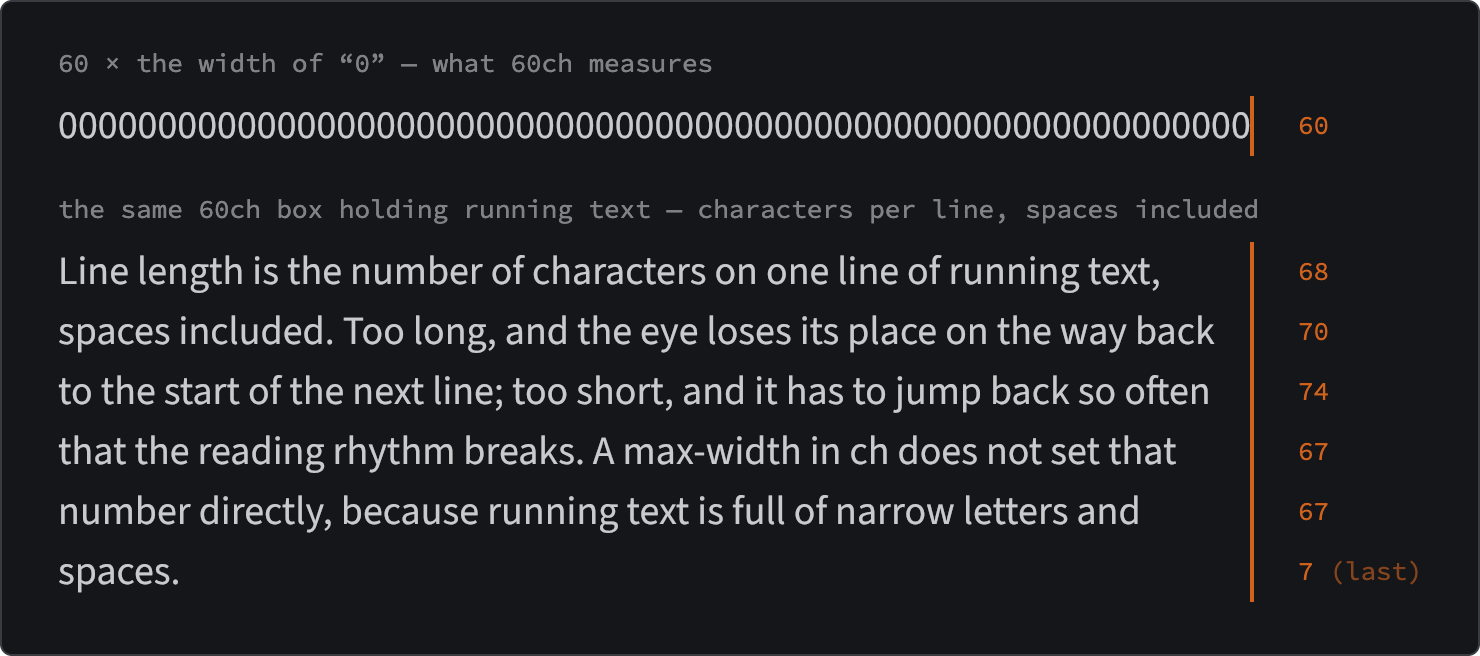
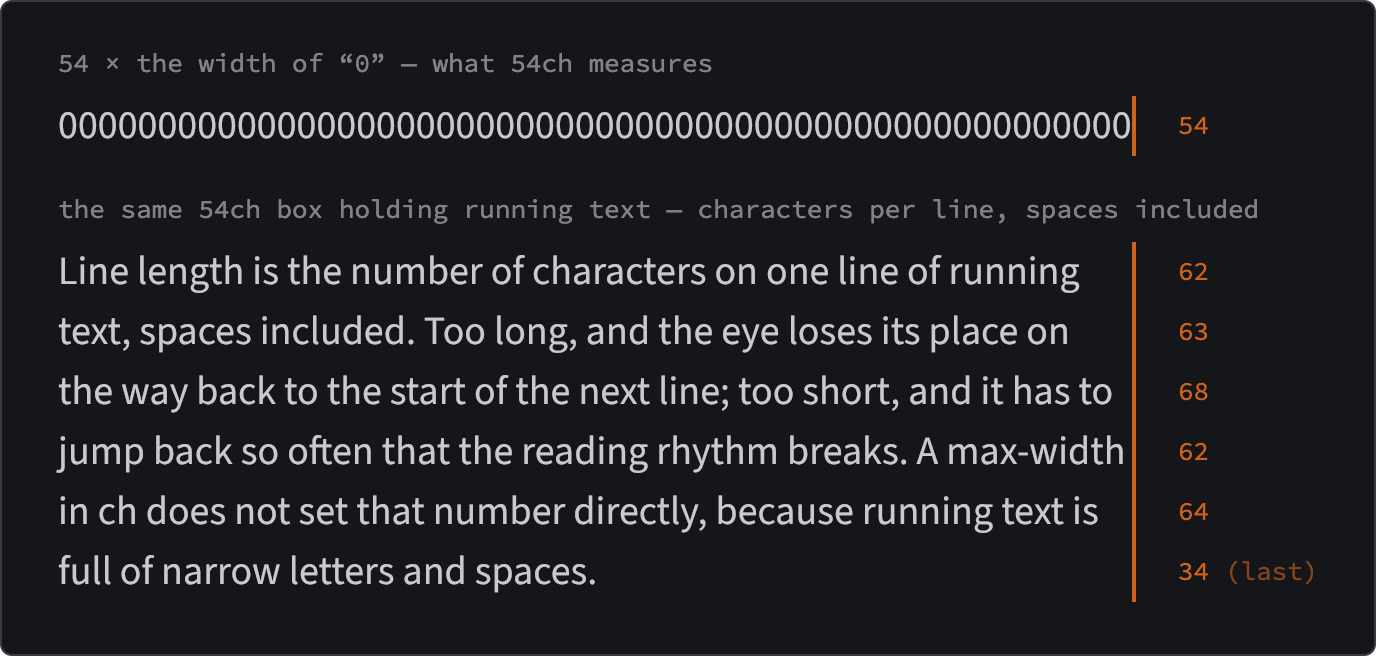
Line length: the prose measure is 54ch
Johan settled on 54ch after trying several widths, replacing Eleventy Excellent's 60ch in prose.css, the .intro lede and the wiki caption measure. That sets about 63 characters a line from tablet width up, where 60ch set about 72.

Wiki: Line length re-measured and its figure re-shot at 54ch; the 60ch mentions on six other pages and the index updated, the band and caption measurements taken again.

diff --git a/src/wiki/_sources/line-length.html b/src/wiki/_sources/line-length.html
@@ -13,10 +13,10 @@
   body { margin: 0; padding: 40px; background: #ddd; }
   .specimen { inline-size: fit-content; background: var(--paper); border: 1px solid var(--rule); border-radius: 6px; padding: 22px 28px 26px; }
   .label { font-family: 'Source Code Pro', ui-monospace, monospace; font-size: 13px; color: var(--ink); opacity: 0.6; margin: 0 0 8px; }
-  /* Body text as the site sets it: Source Sans, --leading 1.5, the prose rule's 60ch. Size is irrelevant to the count — ch scales with the font. */
-  .measure { font-family: 'Source Sans', sans-serif; font-size: 20px; line-height: 1.5; color: var(--ink); max-inline-size: 60ch; margin: 0; }
-  .ruler { white-space: nowrap; border-inline-end: 2px solid var(--flag); inline-size: 60ch; letter-spacing: 0; }
-  .wrap { display: grid; grid-template-columns: 60ch auto; column-gap: 20px; font-size: 20px; }
+  /* Body text as the site sets it: Source Sans, --leading 1.5, the prose rule's 54ch. Size is irrelevant to the count — ch scales with the font. */
+  .measure { font-family: 'Source Sans', sans-serif; font-size: 20px; line-height: 1.5; color: var(--ink); max-inline-size: 54ch; margin: 0; }
+  .ruler { white-space: nowrap; border-inline-end: 2px solid var(--flag); inline-size: 54ch; letter-spacing: 0; }
+  .wrap { display: grid; grid-template-columns: 54ch auto; column-gap: 20px; font-size: 20px; }
   .counts { font-family: 'Source Code Pro', ui-monospace, monospace; font-size: 13px; color: var(--flag); line-height: 30px; margin: 0; }
   .para { border-inline-end: 2px solid var(--flag); }
   .gap { block-size: 18px; }
@@ -25,13 +25,13 @@
 <body>
 
 <div class="specimen" data-shot="line-length-ch">
-  <p class="label">60 × the width of “0” — what 60ch measures</p>
+  <p class="label">54 × the width of “0” — what 54ch measures</p>
   <div class="wrap">
-    <p class="measure ruler">000000000000000000000000000000000000000000000000000000000000</p>
-    <p class="counts">60</p>
+    <p class="measure ruler">000000000000000000000000000000000000000000000000000000</p>
+    <p class="counts">54</p>
   </div>
   <div class="gap"></div>
-  <p class="label">the same 60ch box holding running text — characters per line, spaces included</p>
+  <p class="label">the same 54ch box holding running text — characters per line, spaces included</p>
   <div class="wrap">
     <p class="measure para" id="para">Line length is the number of characters on one line of running text, spaces included. Too long, and the eye loses its place on the way back to the start of the next line; too short, and it has to jump back so often that the reading rhythm breaks. A max-width in ch does not set that number directly, because running text is full of narrow letters and spaces.</p>
     <p class="counts" id="counts"></p>

diff --git a/src/_config/setup/design-previews/component-prose.html b/src/_config/setup/design-previews/component-prose.html
@@ -24,7 +24,7 @@
 				<button class="button" data-small-button type="button" id="theme">Dark theme</button>
 			</div>
 			<p class="ds-meta">
-				The <code>.prose</code> block — running text at a 60ch measure, old-style figures, and the element styles that come from
+				The <code>.prose</code> block — running text at a 54ch measure, old-style figures, and the element styles that come from
 				<code>global-styles.css</code> without any class at all.
 			</p>
 
@@ -32,7 +32,7 @@
 				<h2 class="heading-line">A second-level heading</h2>
 
 				<p>
-					Body copy sits at a 60ch measure with <code>text-wrap: pretty</code>. The numerals are old-style by default — 1234567890 — because
+					Body copy sits at a 54ch measure with <code>text-wrap: pretty</code>. The numerals are old-style by default — 1234567890 — because
 					running text reads better with figures that have ascenders and descenders, the way lowercase letters do.
 				</p>
 

diff --git a/src/assets/css/local/wiki.css b/src/assets/css/local/wiki.css
@@ -31,7 +31,7 @@ _log.md is a run of dated records whose h2 is the whole record — "[2026-08-29]
 WIKI CAPTIONS
 Italic and a step smaller than the prose, starting on the prose's edge and held to the paragraphs' measure, so its right edge lines up with theirs. A breakout figure hands its caption the content column through subgrid.
 */
-/* ⚠ Registered as a length so 60ch resolves at the body size on .prose and inherits as px; an unregistered 60ch would re-resolve at the caption's smaller size. */
+/* ⚠ Registered as a length so 54ch resolves at the body size on .prose and inherits as px; an unregistered 54ch would re-resolve at the caption's smaller size. */
 @property --wiki-prose-measure {
   syntax: '<length>';
   inherits: true;
@@ -39,7 +39,7 @@ Italic and a step smaller than the prose, starting on the prose's edge and held 
 }
 
 .prose {
-  --wiki-prose-measure: 60ch;
+  --wiki-prose-measure: 54ch;
 }
 
 .prose :is(figcaption, .meta) {

diff --git a/src/assets/css/global/blocks/prose.css b/src/assets/css/global/blocks/prose.css
@@ -44,7 +44,7 @@
 /* Measure is in ch, so each type size finds its own line length and the short blocks hang from the start edge on purpose — never add margin-inline: auto here. See the wiki's "Line length". */
 /* Plain lists take the measure on the list, so the bullet indent comes out of it rather than pushing items past the paragraphs' edge. */
 .prose :is(p, li, dl, blockquote, ul:not([class]), ol:not([class])) {
-  max-inline-size: 60ch;
+  max-inline-size: 54ch;
   text-wrap: pretty;
 }
 

diff --git a/src/assets/css/local/post.css b/src/assets/css/local/post.css
@@ -19,7 +19,7 @@ hgroup > p {
 /* Lede / intro — a slightly larger, gently de-emphasised summary under the title. */
 .intro {
   color: var(--color-text-accent);
-  max-inline-size: 60ch;
+  max-inline-size: 54ch;
   text-wrap: balance;
 }
 

diff --git a/src/wiki/Line length.md b/src/wiki/Line length.md
@@ -1,7 +1,7 @@
 ---
 description: "How many characters a line of body text should hold, and why a max-width in ch does not set that number directly."
 date: 2026-09-10
-updated: 2026-09-20
+updated: 2026-10-01
 ---
 
 **Line length** (typography's *measure*) is the number of characters on one line of running text, spaces included. Too long, and the eye loses its place on the way back to the start of the next line; too short, and it has to jump back so often that the reading rhythm breaks. [Baymard Institute's usability research](https://baymard.com/blog/line-length-readability) (Edward Scott, 2022) puts the comfortable range at **50–75 characters per line**, and reports test users either leaving a page of over-long lines or skimming it without taking it in.
@@ -21,47 +21,49 @@ Baymard also lists a set of spacing values (letter spacing 0.12 em, word spacing
 Line length is set with a maximum width in a font-relative unit, so it scales with the type:
 
 ```css
-p { max-inline-size: 60ch; }
+p { max-inline-size: 54ch; }
 ```
 
-⚠ **`60ch` is not 60 characters.** `1ch` is the advance width of the "0" glyph, and digits are wider than the average character in running text, which is full of narrow `i`, `l`, `t` and spaces. A `ch` measure therefore holds *more* characters than its number. How many more depends on the face: measure it rather than assume it.
+⚠ **`54ch` is not 54 characters.** `1ch` is the advance width of the "0" glyph, and digits are wider than the average character in running text, which is full of narrow `i`, `l`, `t` and spaces. A `ch` measure therefore holds *more* characters than its number. How many more depends on the face: measure it rather than assume it.
 
 <figure class="popout" data-wiki-mockup>
-  <img eleventy:formats="webp,png" src="/assets/images/wiki/line-length-ch.png" alt="Above, a row of sixty zeros in Source Sans exactly fills a box 60ch wide, marked with an orange rule. Below, a paragraph set in a box of the same width, with the character count of each line in orange beside it: 68, 70, 74, 67, 67, and a last line of 7." width="1480" height="656">
-  <figcaption>Sixty zeros are exactly <code>60ch</code>; the same box holds 67–74 characters of running text in Source Sans. The counts are measured from the rendered lines, not typed in.</figcaption>
+  <img eleventy:formats="webp,png" src="/assets/images/wiki/line-length-ch.png" alt="Above, a row of fifty-four zeros in Source Sans exactly fills a box 54ch wide, marked with an orange rule. Below, a paragraph set in a box of the same width, with the character count of each line in orange beside it: 62, 63, 68, 62, 64, and a last line of 34." width="1376" height="656">
+  <figcaption>Fifty-four zeros are exactly <code>54ch</code>; the same box holds 62–68 characters of running text in Source Sans. The counts are measured from the rendered lines, not typed in.</figcaption>
 </figure>
 
-Baymard suggests `70ch`; in this site's face that would set lines of about 84 characters, over WCAG's 80.
+Baymard suggests `70ch`; in this site's face that would set lines of about 82 characters, over WCAG's 80.
 
-`ch` also changes with the font: while a fallback face shows, the same `60ch` resolves to a different width (see [[Layout shift]], where Arial's `ch` runs about 5% wider than Source Sans's even after metric matching).
+`ch` also changes with the font: while a fallback face shows, the same `54ch` resolves to a different width (see [[Layout shift]], where Arial's `ch` runs about 5% wider than Source Sans's even after metric matching).
 
 On a phone in portrait the column is narrower than any sensible maximum, so the screen, not the CSS, sets the line length, and lines fall below 50 characters. Baymard treats that as the lesser problem; the maximum matters in landscape and on larger screens.
 
 ## In jedee
 
-The measure is Eleventy Excellent's stock rule in `global/blocks/prose.css`:
+The measure is set in `global/blocks/prose.css`:
 
 ```css
-.prose :is(p, li, dl, blockquote) {
-  max-inline-size: 60ch;
+.prose :is(p, li, dl, blockquote, ul:not([class]), ol:not([class])) {
+  max-inline-size: 54ch;
   text-wrap: pretty;
 }
 ```
 
-jedee's own additions reuse the number: `.intro` (the lede under a post title) in `local/post.css` is also `60ch`, and the webmention list in `local/webmentions.css` is `40ch`. The prose column around them is `--wrapper-width: 64rem`, so the `ch` cap, not the column, is what limits a paragraph on a desktop screen. [[Text wrapping]] covers the `text-wrap` half of the same rule.
+Eleventy Excellent ships `60ch`. On 2026-10-01 Johan tried several widths and settled on `54ch`, which lands near the middle of the 50–75 range instead of at its top (the numbers are below). Plain lists take the measure on the list itself rather than on each item, so the bullet indent comes out of the line length instead of pushing list text past the paragraphs' right edge. That follows the book typographer's text block, where indented matter sits inside the measure and never sticks out of it. A list with a class (a card grid, a row of tags) keeps the per-item rule, so the cap doesn't squeeze the whole grid.
 
-Because that cap is narrower than the column and nothing centers it, every text block hangs from the column's start edge and the right edge steps in as the type gets smaller. Measured on [[Layout breakouts]] in a 946 px column: the band runs 48–898 px, a code block and an `h2` fill it at 850 px, a paragraph stops at 804.8 px at 24.5 px type, and a figcaption at 654.5 px at 19.7 px type (its `60ch` comes from the wiki's own caption rule, not the one above) — the same number at two type sizes, with the uncapped elements filling the band. A paragraph's optical center therefore sits about 47 px left of the band's center, a caption's about 122 px. **This is deliberate and the page is designed around it**: the full-width elements that fall between the text — a code block, a table, a figure — re-establish the band, so the page reads as balanced without the short blocks being centered. Adding `margin-inline: auto` to the rule above would center every one of them and flatten the effect site-wide, in one line.
+jedee's own additions reuse the number: `.intro` (the lede under a post title) in `local/post.css` is also `54ch`, and so is the wiki's caption measure in `local/wiki.css` (see [[Figures]]). The webmention list in `local/webmentions.css` is `40ch`. The prose column around them is `--wrapper-width: 64rem`, so the `ch` cap, not the column, is what limits a paragraph on a tablet or desktop screen. [[Text wrapping]] covers the `text-wrap` half of the same rule.
 
-**What `60ch` actually sets**, measured on 2026-09-10 in the built site: characters per rendered line in paragraphs of plain running text (no inline code), last lines excluded, in Source Sans.
+Because that cap is narrower than the column and nothing centers it, every text block hangs from the column's start edge. Measured on [[Layout breakouts]] at a 1280 px viewport: the content band runs 128–1152 px, and an `h2` fills it; a code block breaks out to 96–1184 px; a paragraph and a figcaption both stop at 860.2 px. A paragraph's optical center therefore sits about 146 px left of the band's center. **This is deliberate and the page is designed around it**: the full-width elements that fall between the text — a code block, a table, a figure — re-establish the band, so the page reads as balanced without the short blocks being centered. Adding `margin-inline: auto` to the rule above would center every one of them and flatten the effect site-wide, in one line.
 
-Table: Characters per line set by `60ch`, by viewport
+**What `54ch` actually sets**, measured on 2026-10-01 on the dev server: characters per rendered line in paragraphs of plain running text over 200 characters long (no inline code), last lines excluded, across eight wiki pages, in Source Sans.
+
+Table: Characters per line set by `54ch`, by viewport
 | viewport | font size | paragraph width | characters per line (median, 10th–90th percentile) |
 | --- | --- | --- | --- |
-| 1920 px | 28 px | 835 px | 72 (67–75) |
-| 1280 px | 27.3 px | 813 px | 72 (67–75) |
-| 768 px | 22.8 px | 657 px | 70 (63–74) |
-| 390 px | 19.5 px | 325 px | 39 (36–42) |
+| 1920 px | 28 px | 751 px | 63 (58–67) |
+| 1280 px | 27.3 px | 732 px | 63 (58–67) |
+| 768 px | 22.8 px | 613 px | 63 (58–67) |
+| 390 px | 19.6 px | 343 px | 41 (37–44) |
 
-So `60ch` in Source Sans holds about **1.2 characters per `ch`**: lines of about 72 characters, at the top of the 50–75 range rather than in its middle, and inside WCAG's 80. At 768 px the viewport is already narrower than `60ch`, and at 390 px lines drop to about 39. Nothing has been changed on the strength of this; a measure aimed at the middle of the range would be about `52ch` in this face.
+So `54ch` in Source Sans holds about **1.17 characters per `ch`**: lines of about 63 characters, close to Bringhurst's 66 and in the middle of the 50–75 range. The cap now applies from tablet width up, so the line length is the same at 768 px as at 1920 px; only a phone in portrait drops below 50, to about 41. The old `60ch`, measured on 2026-09-10 in the built site, set lines of about 72 characters, and at 768 px the screen was already narrower than the cap.
 
 Raw source: `src/_raw/Readability The Optimal Line Length.md` (Edward Scott, Baymard Institute, 2022-05-10). The clip captured only Baymard's site navigation, not the article; this page was written from the live article.

diff --git a/src/wiki/Figures.md b/src/wiki/Figures.md
@@ -30,7 +30,7 @@ Everything here is jedee's own and applies to the wiki only (`src/assets/css/loc
 
 ### Wiki captions
 
-Wiki captions are italic and one type step smaller than the prose, start on the prose's left edge, and stop at the paragraphs' `60ch` measure, so a caption's right edge lines up with the paragraphs above it rather than with the figure. Most wiki figures break out to `.popout` width (see [[Layout breakouts]]), so without help the caption would start at the figure's edge, 2rem left of the text. The figure passes the wrapper's named columns down through subgrid and puts the caption back in `content`:
+Wiki captions are italic and one type step smaller than the prose, start on the prose's left edge, and stop at the paragraphs' `54ch` measure, so a caption's right edge lines up with the paragraphs above it rather than with the figure. Most wiki figures break out to `.popout` width (see [[Layout breakouts]]), so without help the caption would start at the figure's edge, 2rem left of the text. The figure passes the wrapper's named columns down through subgrid and puts the caption back in `content`:
 
 ```css
 .prose figure:is(.popout, .feature) {
@@ -42,7 +42,7 @@ Wiki captions are italic and one type step smaller than the prose, start on the 
 .prose figure:is(.popout, .feature) > figcaption { grid-column: content; }
 ```
 
-⚠ `60ch` in the caption's own rule would be 60 of the *caption's* smaller characters, and the edge would silently land short of the paragraphs'. The measure is registered as a length, so it resolves once on `.prose`, at the body size, and inherits as pixels:
+⚠ `54ch` in the caption's own rule would be 54 of the *caption's* smaller characters, and the edge would silently land short of the paragraphs'. The measure is registered as a length, so it resolves once on `.prose`, at the body size, and inherits as pixels:
 
 ```css
 @property --wiki-prose-measure {
@@ -51,11 +51,11 @@ Wiki captions are italic and one type step smaller than the prose, start on the 
   initial-value: 0px;
 }
 
-.prose { --wiki-prose-measure: 60ch; }
-.prose figcaption { max-inline-size: var(--wiki-prose-measure); }
+.prose { --wiki-prose-measure: 54ch; }
+.prose :is(figcaption, .meta) { max-inline-size: var(--wiki-prose-measure); }
 ```
 
-At a 1440px window both the paragraphs and the captions run from x = 201 to 1035, inside a figure from 169 to 1257. Three versions came before this one on the same day: a hanging info icon after Smashing Magazine's captions, a caption spanning the whole content column, and a dimmed color. All three were dropped.
+Measured on [[Layout breakouts]] at a 1440px window on 2026-10-01, after the measure moved to `54ch`: both the paragraphs and the captions run from x = 208 to 959, inside a figure from 176 to 1264. Three versions came before this one on the same day: a hanging info icon after Smashing Magazine's captions, a caption spanning the whole content column, and a dimmed color. All three were dropped.
 
 ### Dark twins
 

diff --git a/src/wiki/Text wrapping.md b/src/wiki/Text wrapping.md
@@ -1,7 +1,7 @@
 ---
 description: "The two CSS text-wrap values that prevent widows in headings and paragraphs without JavaScript."
 date: 2026-08-01
-updated: 2026-09-28
+updated: 2026-10-01
 ---
 
 A **widow** (typography's term, loosely used) is a very short last line — usually one lone word — at the end of a paragraph or, most visibly, a heading. For most of the web's history there was no CSS for this; the standard fix was JavaScript that swapped the last space for a `&nbsp;` (the approach in [css-tricks' 2013 article](https://css-tricks.com/preventing-widows-in-post-titles/), which [Josh Crain](https://joshcrain.io/notes/2024/prevent-widows-in-post-titles/) cites as the state of things before `text-wrap`). Two values of the CSS `text-wrap` property now solve it natively:
@@ -35,7 +35,7 @@ Both, rendered in the site's own faces at the same measure. Each pair is one str
 Both values are shipped, at these places in the cascade:
 
 - `global/base/reset.css` — the broad defaults, in the `reset` layer: `* { text-wrap: pretty }` and `h1, h2, h3, h4 { text-wrap: balance }`. This is the whole site's baseline.
-- `global/blocks/prose.css` — `.prose :is(p, li, dl, blockquote)` repeats `text-wrap: pretty` alongside the `60ch` measure (what that measure actually sets is on [[Line length]]). Redundant with the reset in effect, but it keeps the prose block's typographic decisions self-contained.
+- `global/blocks/prose.css` — `.prose :is(p, li, dl, blockquote, ul:not([class]), ol:not([class]))` repeats `text-wrap: pretty` alongside the `54ch` measure (what that measure actually sets is on [[Line length]]). Redundant with the reset in effect, but it keeps the prose block's typographic decisions self-contained.
 - `local/post.css` — `.intro` (the lede under a post title) gets `text-wrap: balance`: a short, display-adjacent block, so it takes the heading treatment rather than the paragraph one.
 - `global/base/global-styles.css`: since 2026-09-10, `figcaption` and `blockquote` (with its `p`) take `balance`, since a centered caption and a quotation are short blocks like a heading. ⚠ Inside `.prose` the quote needs the rule again in `prose.css`. There, `.prose :is(p, …)` sets `pretty` in a later layer and matches the quote's paragraphs directly. The wiki's long captions go back to `pretty` in `local/wiki.css`; the reasoning is on [[Typographic conventions]].
 - `global/blocks/breadcrumb-leaf.css` — **the gotcha.** The current-page crumb must stay on one line, but the global `* { text-wrap: pretty }` reset re-enables wrapping *even against an explicit `white-space: nowrap`*. The block clamps with `-webkit-line-clamp: 1` instead, which wins where `nowrap` loses. Any future single-line truncation on this site has the same fight ahead of it — the reset's universal selector reaches everything.

diff --git a/src/wiki/Typographic conventions.md b/src/wiki/Typographic conventions.md
@@ -1,7 +1,7 @@
 ---
 description: "The book-typography rules for figures, small caps, capitals, captions, line breaks, superscripts, ordinals, list markers, subtitles, kerning, hyphenation and hard spaces, where they come from, and what each costs in accessibility."
 date: 2026-09-10
-updated: 2026-09-30
+updated: 2026-10-01
 ---
 
 Typography carries a set of conventions older than the web, most of them written down in two books. Robert Bringhurst's *The Elements of Typographic Style* (1992; 4th edition 2012) is adapted rule by rule for CSS at [webtypography.net](http://webtypography.net/). Matthew Butterick's *Practical Typography* is a free online book. The two agree more than they differ, and where they differ Butterick is the milder. This page covers the part CSS can switch on, given fonts that carry the features; the switches themselves are on [[OpenType features]].
@@ -114,7 +114,7 @@ Set on 2026-09-10, after a research pass and an audit of the site. The decisions
   - The old-style zero has no slashed form, so `slashed-zero` over old-style figures does nothing. `.slashed-zero` therefore sets lining figures as well, which is what a code or serial number wants anyway.
 - **No small caps on `abbr`**, for two reasons. The glossary ([[Abbreviations]]) marks only its 31 terms (it has CLS but not CSS), so styled acronyms would sit beside unstyled ones. And `all-small-caps` would flatten RDFa.
 - **Capital labels** (site logo, breadcrumb, menu button, footer, buttons) share `--tracking-wide`, raised from 0.09ch to 0.12ch. That is about 5.7% of the size, since a Source Sans digit is 0.472 em wide.
-- **Captions** stay italic and centered, and are now balanced. The wiki's captions run long (a median of about 100 characters, up to 400), so `local/wiki.css` sets them left-aligned and `pretty`, on the prose's edge and its 60ch measure. They were upright until 2026-09-29, when Johan chose italic despite the readability case above; see [[Figures]].
+- **Captions** stay italic and centered, and are now balanced. The wiki's captions run long (a median of about 100 characters, up to 400), so `local/wiki.css` sets them left-aligned and `pretty`, on the prose's edge and its 54ch measure. They were upright until 2026-09-29, when Johan chose italic despite the readability case above; see [[Figures]].
 - **Quotations** balance. The rule is in `global-styles.css`, and again in `prose.css`, whose `pretty` rule on `p` would otherwise win.
 - **Footnote markers** are bare superscript figures.
   - `markdown.js` overrides markdown-it-footnote's `footnote_caption` rule to drop the brackets. The Source Sans subset has superscript digits, parentheses and colons, but no square brackets. `footnotes.css` then uses `font-variant-position: super`.

diff --git a/src/wiki/Layout shift.md b/src/wiki/Layout shift.md
@@ -1,7 +1,7 @@
 ---
 description: "Cumulative Layout Shift: what it measures, why the element that moves is rarely the element at fault, and how a font-size-adjust fighting a size-adjust cost this site 0.18."
 date: 2026-09-06
-updated: 2026-09-10
+updated: 2026-10-01
 ---
 
 A page that moves under the reader is a specific kind of broken. You go to click a link and an image finishes loading above it, so you click an ad instead. You start reading a paragraph and a font swaps in, reflowing the line you were on. Nothing failed and nothing is slow — the page simply arrived in pieces, and the later pieces pushed the earlier ones around.
@@ -186,7 +186,7 @@ Table: The width of `1ch` in each family
 | Source Serif | 0.54187 | — |
 | Source Serif Fallback | 0.68000 | +25.49% |
 
-So `prose.css`'s `max-inline-size: 60ch` (about 72 characters in the web font, see [[Line length]]) and the `--tracking` values in `ch` all resolve differently while the fallback shows. **This turned out not to be the cause of any shift measured here** — converting every `ch` tracking value to `em` made letter-spacing identical between the two states and the footer still wrapped the same way, because the difference is around 1% of a sub-pixel value. Recorded because it is real and easy to assume is the culprit; it was measured and it is not.
+So `prose.css`'s `max-inline-size: 54ch` (about 63 characters in the web font, see [[Line length]]) and the `--tracking` values in `ch` all resolve differently while the fallback shows. **This turned out not to be the cause of any shift measured here** — converting every `ch` tracking value to `em` made letter-spacing identical between the two states and the footer still wrapped the same way, because the difference is around 1% of a sub-pixel value. Recorded because it is real and easy to assume is the culprit; it was measured and it is not.
 
 **What is *not* a factor: font size.** `size-adjust` is a pure ratio, so it is scale-invariant — the required value for the heading is 100.119% at 32 px, 100.103% at 64 px and 100.100% at 107 px. Fluid `clamp()` type does not weaken metric matching.
 

diff --git a/src/wiki/Vertical rhythm.md b/src/wiki/Vertical rhythm.md
@@ -49,7 +49,7 @@ A **registered custom property** gives the unit without either trap. A property 
 
 It is computed from the font size rather than from `1lh`, which on this element would read the line-height it is setting. Rounding moves the leading by up to half a pixel.
 
-**Leading by measure.** Longer lines need looser leading, as Salminen's 2013 post and Scale.css's widest step argue (below). jedee's prose lines run from about 40 characters on a phone to the 60ch measure on a wide screen, so the line is fluid: 1.4 of the body size at 320px, 1.5 at 1350px, the two ends of the Utopia type scale. The middle term of the `clamp()` is a straight line between 1.4 × 19px and 1.5 × 28px, the body size at those two widths; the `em` bounds hold the ratio between 1.4 and 1.5 whatever happens in between. ⚠ The middle term is tuned to `--size-step-0`'s two ends and has to be worked out again if they change. A fluid number (`1.4 + 0.1 × progress`) would need a length divided by a length, which not every browser does yet. Every step of the lattice is a fraction of the line, so the whole rhythm opens up with it.
+**Leading by measure.** Longer lines need looser leading, as Salminen's 2013 post and Scale.css's widest step argue (below). jedee's prose lines run from about 40 characters on a phone to the 54ch measure on a wide screen, so the line is fluid: 1.4 of the body size at 320px, 1.5 at 1350px, the two ends of the Utopia type scale. The middle term of the `clamp()` is a straight line between 1.4 × 19px and 1.5 × 28px, the body size at those two widths; the `em` bounds hold the ratio between 1.4 and 1.5 whatever happens in between. ⚠ The middle term is tuned to `--size-step-0`'s two ends and has to be worked out again if they change. A fluid number (`1.4 + 0.1 × progress`) would need a length divided by a length, which not every browser does yet. Every step of the lattice is a fraction of the line, so the whole rhythm opens up with it.
 
 ## Strict grid or soft rhythm
 

diff --git a/src/wiki/_log.md b/src/wiki/_log.md
@@ -5,6 +5,10 @@ date: 2026-07-31
 
 Append-only. One entry per ingest / query-filed / lint, newest first. Entry format: `## [YYYY-MM-DD] ingest | Title` so `grep "^## \[" _log.md | head -5` lists the latest five.
 
+## [2026-10-01] enrich | Line length moved to 54ch
+
+Johan tried several line lengths and settled on `54ch`, replacing Eleventy Excellent's `60ch` in `prose.css`, the `.intro` lede in `post.css` and the caption measure in `wiki.css`. The same day plain lists started taking the measure on the list rather than each item, so list text no longer runs past the paragraphs' edge. [[Line length]] was re-measured on the dev server across eight wiki pages: about 63 characters a line from 768px up (it was about 72), 41 on a phone. The `line-length-ch` figure was re-shot at `54ch`, and its caption, alt text and image size updated. The `60ch` mentions on [[Figures]], [[Accessibility]], [[Text wrapping]], [[Typographic conventions]], [[Layout shift]], [[Vertical rhythm]] and the index now say `54ch`; the caption and band measurements on [[Figures]] and [[Line length]] were taken again rather than scaled.
+
 ## [2026-10-01] enrich | Vertical rhythm folded into prose
 
 The rhythm stopped being a scoped prototype: `global/blocks/prose-rhythm.css`, scoped to `.prose`, replaced the old spacing rules in `prose.css`, and the `data-rhythm` attribute, the page-level stylesheet and the dev-only `?rhythm=off` switch with its scroll-synced tabs went. Plain pages, listing pages and the webmentions box came with it. Because page-level stylesheets beat layered global CSS, the components whose own stylesheets set the same properties take the line steps there, with the old values as fallbacks: tables, media meta, activity stats, the event badge, the subtitle, the featured image and the video links. The two before/after figures are frozen, since the old CSS is gone. A sweep of 147 pages at two widths: 291 of 294 clean.
